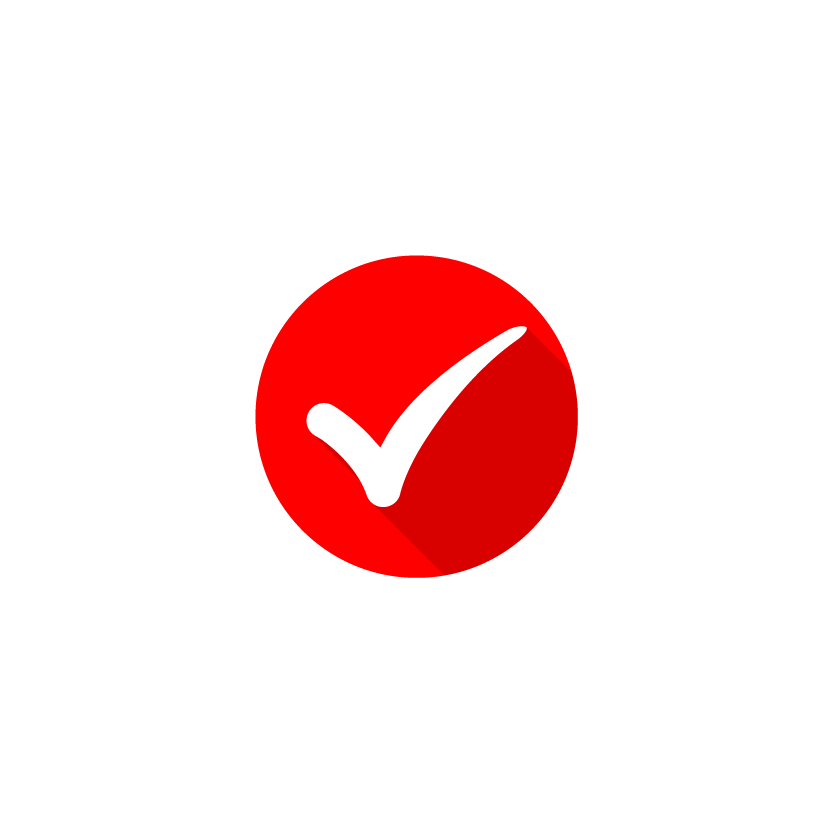
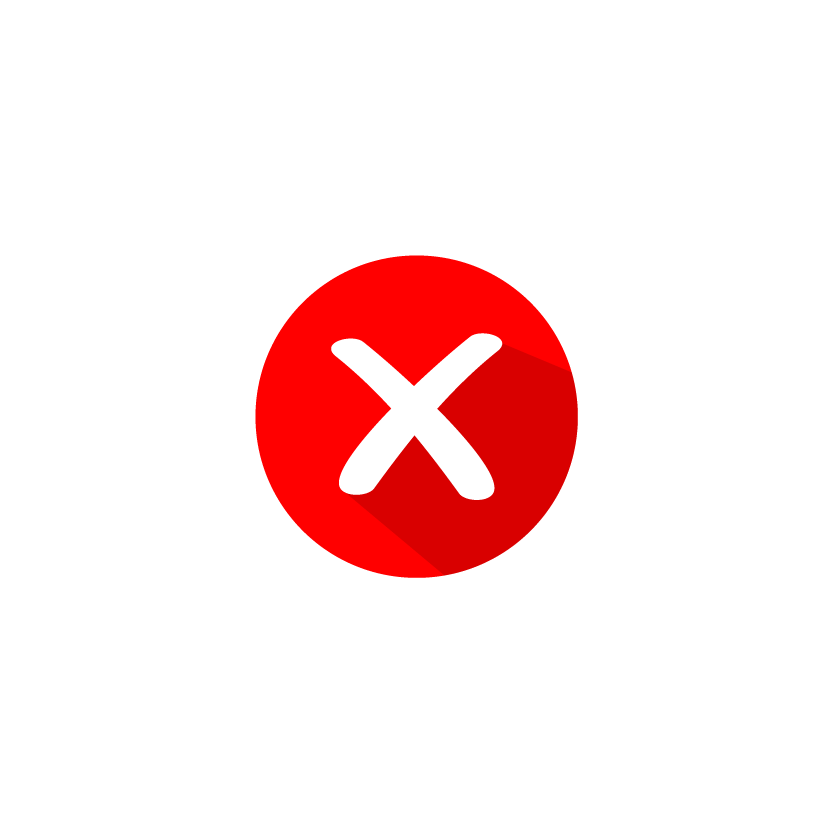
View - Status 값, 상태 표시 이미지 png 교체

Changed region(s): [[0.3429, 0.3741, 0.6859, 0.6547]]

diff --git a/src/main/resources/static/index.js b/src/main/resources/static/index.js
@@ -79,11 +79,11 @@ function updateRoomInfo(data) {
             displayStatus(roomInfo.status, roomInfo.occupancy, roomInfo.maxCount);
             break;
         case "MEDIUM":
-            roomInfo.status  = "혼잡합니다.";
+            roomInfo.status  = "조금 혼잡합니다.";
             displayStatus(roomInfo.status, roomInfo.occupancy, roomInfo.maxCount);
             break;
         case "HIGH":
-            roomInfo.status  = "만실입니다.";
+            roomInfo.status  = "입장이 불가합니다.";
             displayStatus(roomInfo.status, roomInfo.occupancy, roomInfo.maxCount);
             break;
         case "NOT_OPERATING":
@@ -115,8 +115,8 @@ function displayStatus(status, occupancy, maxCount) {
         coloredStatus.style.color = '#1494ff';
         statusImg.src = './img/Blue.png';
     } else if (occupancy >= 10 && occupancy < maxCount) {
-        coloredStatus.style.color = '#ff6012';
-        statusImg.src = './img/Orange.png';
+        coloredStatus.style.color = '#E6EC20';
+        statusImg.src = './img/Yellow.png';
     } else if (occupancy >= maxCount) {
         coloredStatus.style.color = '#ff0000';
         statusImg.src = './img/Red.png';

diff --git a/src/main/resources/static/admin.js b/src/main/resources/static/admin.js
@@ -99,11 +99,11 @@ function showStats(data) {
             displayStatus(roomInfo.status);
             break;
         case "MEDIUM":
-            roomInfo.status  = "혼잡합니다.";
+            roomInfo.status  = "조금 혼잡합니다.";
             displayStatus(roomInfo.status);
             break;
         case "HIGH":
-            roomInfo.status  = "만실입니다.";
+            roomInfo.status  = "입장이 불가합니다.";
             displayStatus(roomInfo.status);
             break;
         case "NOT_OPERATING":

diff --git a/src/main/resources/static/style.css b/src/main/resources/static/style.css
@@ -20,6 +20,7 @@ body {
     align-items: center; /* 수직 정렬 (가운데) */
     justify-content: center; /* 수평 정렬 (가운데) */
     height: 100vh; /* 화면 높이에 맞추어 정렬 */
+    overflow: hidden;
 }
 
 /* Input */

diff --git a/src/main/java/com/accesscontrol/entity/Status.java b/src/main/java/com/accesscontrol/entity/Status.java
@@ -5,8 +5,8 @@ import lombok.Getter;
 // 현재 방안의 상태
 public enum Status {
     LOW("입장 가능합니다."),
-    MEDIUM("혼잡합니다."),
-    HIGH("만실입니다."),
+    MEDIUM("조금 혼잡합니다."),
+    HIGH("입장이 불가합니다."),
     NOT_OPERATING("운영시간이 아닙니다.");
 
     @Getter
